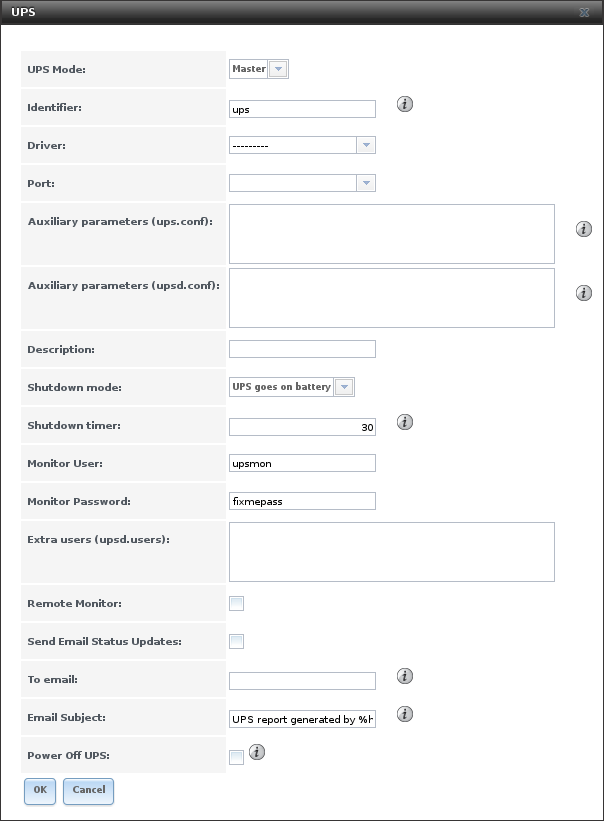
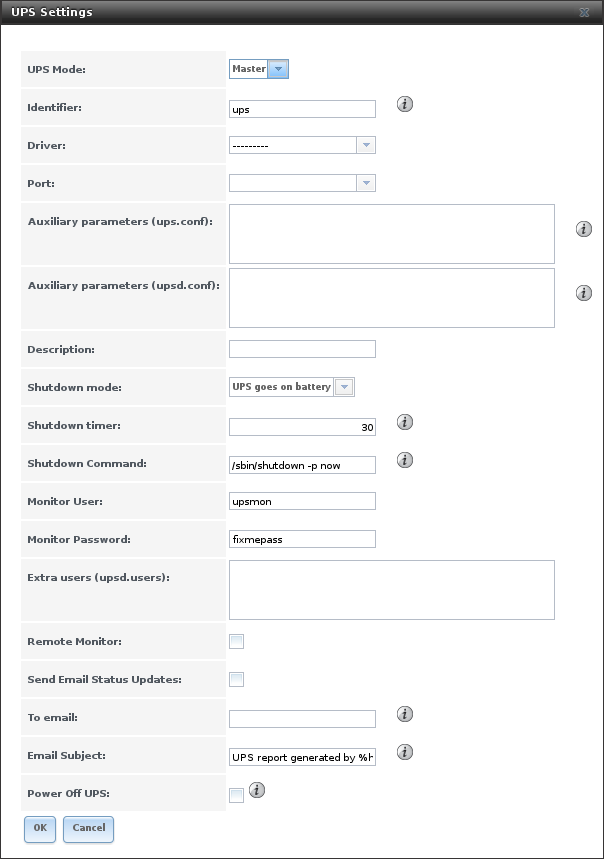
Bug #16674: update UPS service screenshot and options table.

diff --git a/userguide/services.rst b/userguide/services.rst
@@ -1801,6 +1801,9 @@ summarizes the options in the UPS Configuration screen.
    |                           |                | unless power is restored                                                                              |
    |                           |                |                                                                                                       |
    +---------------------------+----------------+-------------------------------------------------------------------------------------------------------+
+   | Shutdown Command          | string         | the command to run to shut down the computer when battery power is low or shutdown timer runs out     |
+   |                           |                |                                                                                                       |
+   +---------------------------+----------------+-------------------------------------------------------------------------------------------------------+
    | Monitor User              | string         | default is *upsmon*                                                                                   |
    |                           |                |                                                                                                       |
    +---------------------------+----------------+-------------------------------------------------------------------------------------------------------+
@@ -1823,6 +1826,8 @@ summarizes the options in the UPS Configuration screen.
    | To email                  | email address  | if :guilabel:`Send Email` box checked, email address to receive status updates;                       |
    |                           |                | separate multiple email addresses with a semicolon                                                    |
    |                           |                |                                                                                                       |
+   +---------------------------+----------------+-------------------------------------------------------------------------------------------------------+
+   | Email Subject             | string         | Subject line to be used in the email                                                                  |
    +---------------------------+----------------+-------------------------------------------------------------------------------------------------------+
    | Power Off UPS             | checkbox       | if checked, the UPS will also power off after shutting down the FreeNAS system                        |
    |                           |                |                                                                                                       |
